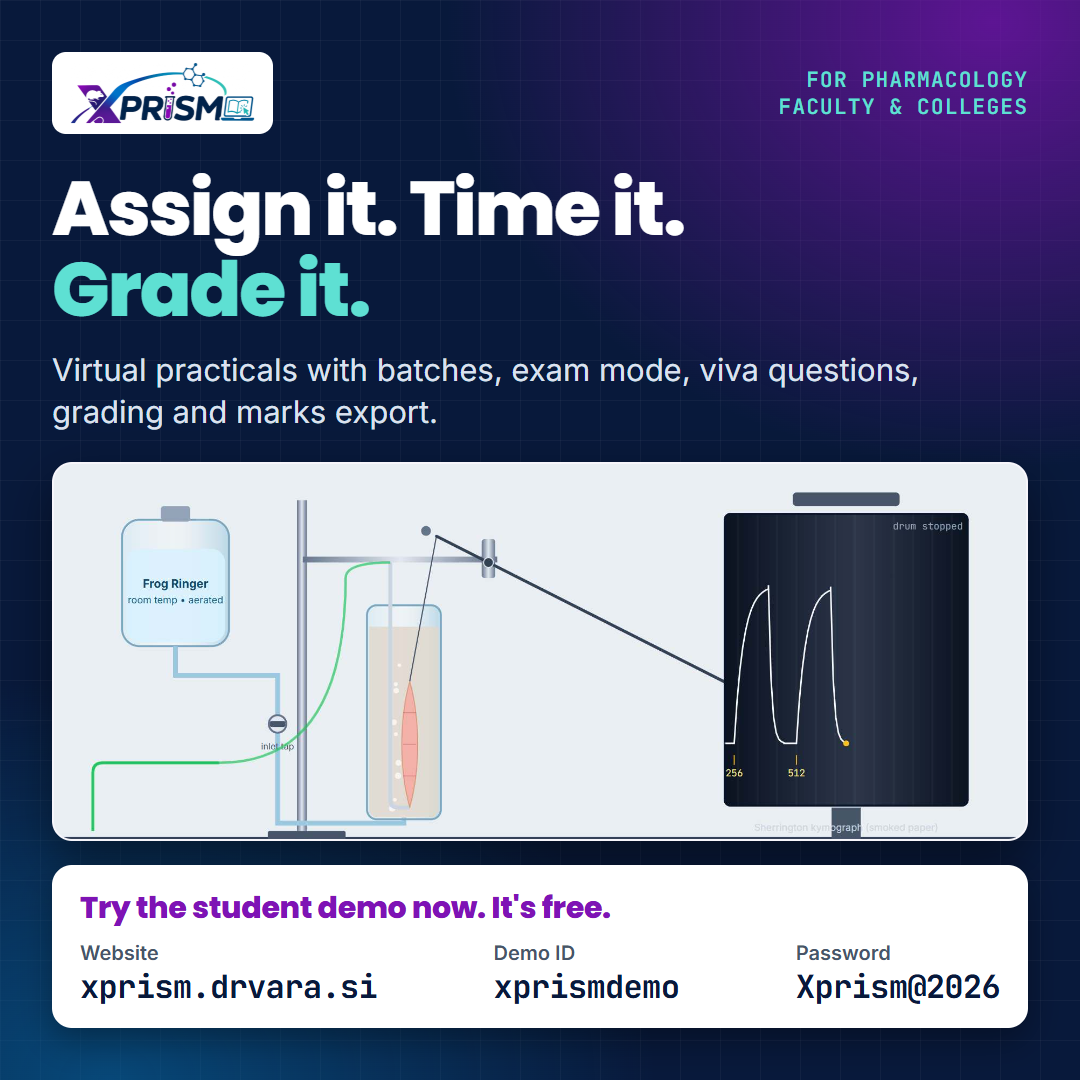
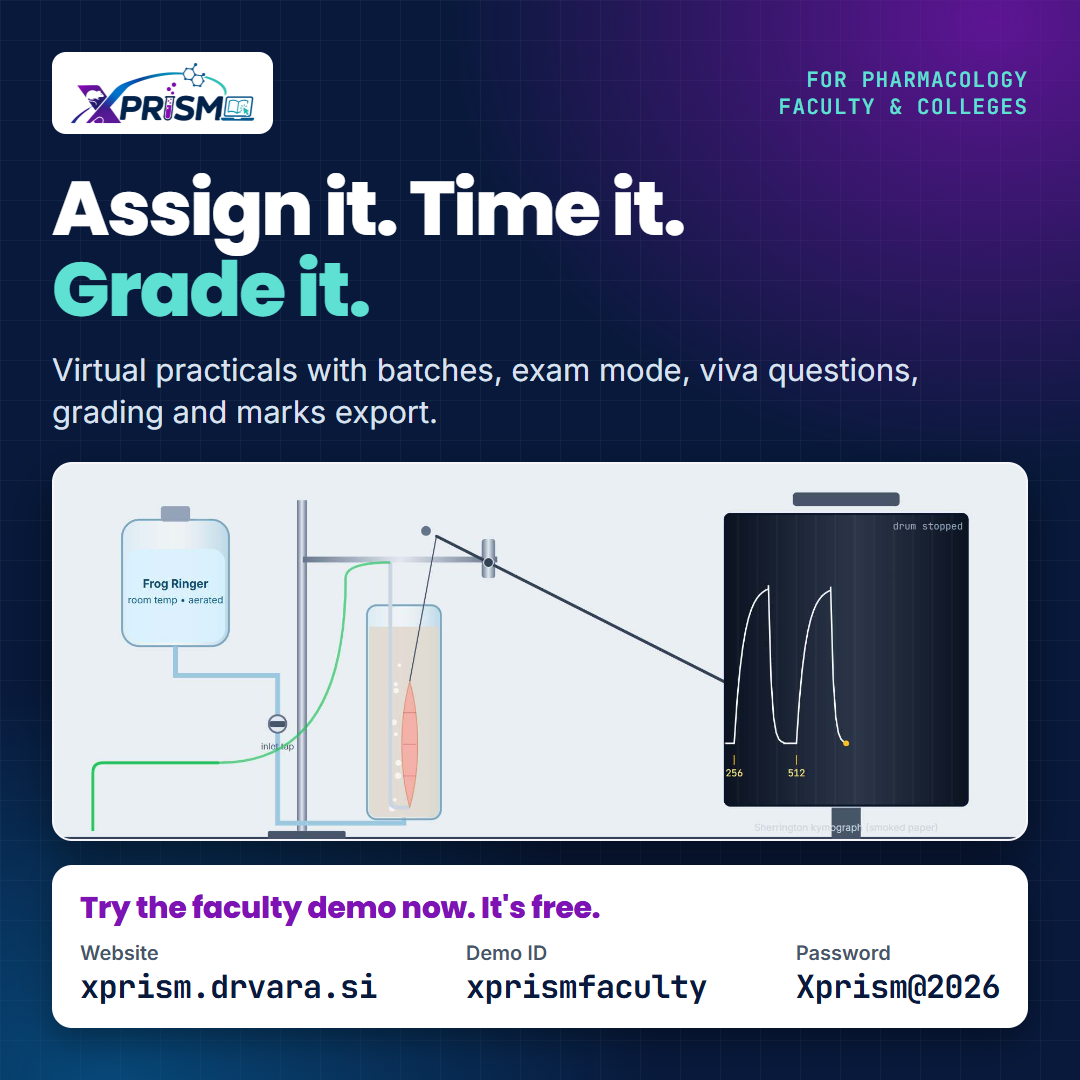
Add public demo logins for every role except super admin
Add setup_demo, which creates a demo college with shared College Admin,
Faculty, Lab Assistant and Student logins plus a sample class. Running
it again restores the demo college and touches no other college;
deploy/demo-reset.sh runs it nightly.

Because the passwords are printed in adverts, shared logins may only
sign in and out, accept the terms, submit work, grade, and create or
edit assignments. Wrong passwords don't lock them, the audit log hides
visitors' IP addresses, joining by class code is off, and every page
warns against entering real student details.

Add all-roles ad images and text, and give the faculty ad its own login.

Changed region(s): [[0.1833, 0.825, 0.6417, 0.9472]]

diff --git a/marketing/ads/build_ads.js b/marketing/ads/build_ads.js
@@ -1,11 +1,13 @@
 // Renders the XPRISM ad images with the project's own fonts, logo and simulation screenshots.
-// Change the demo login below, then run:  npm i --no-save playwright-core && node marketing/ads/build_ads.js
+// Change the demo logins below (and PASSWORD in lab/management/commands/setup_demo.py), then run:
+//   npm i --no-save playwright-core && node marketing/ads/build_ads.js
 const fs = require('fs');
 const os = require('os');
 const path = require('path');
 const { chromium } = require('playwright-core');
 
 const SITE = 'xprism.drvara.si', ID = 'xprismdemo', PWD = 'Xprism@2026';
+const ROLES = [['Student', 'xprismdemo'], ['Faculty', 'xprismfaculty'], ['Lab Assistant', 'xprismassistant'], ['College Admin', 'xprismadmin']];
 const ROOT = 'file:///' + path.resolve(__dirname, '../..').replace(/\\/g, '/');
 
 const css = `
@@ -40,6 +42,11 @@ h1 span{color:#5ee0d3}
 .pair .shot{flex:1.55 1 0;margin-top:0}
 .pair .rs{flex:1 1 0;flex-direction:column;margin-top:0}
 .pair .rs div{display:flex;flex-direction:column;justify-content:center}
+.roles .site{display:flex;justify-content:space-between;gap:calc(var(--u)*16);margin-top:calc(var(--u)*8);padding-bottom:calc(var(--u)*12);border-bottom:1px solid #e2e8f0;font-size:calc(var(--u)*20);font-weight:600;color:#475569}
+.roles .site strong{display:block;margin-top:calc(var(--u)*2);font-family:'JetBrains Mono',monospace;font-weight:700;font-size:calc(var(--u)*30);letter-spacing:-.02em;color:#08193b}
+.roles .table{display:grid;grid-template-columns:1fr 1fr;gap:calc(var(--u)*8) calc(var(--u)*20);margin-top:calc(var(--u)*12)}
+.roles .table small{display:block;font-size:calc(var(--u)*20);font-weight:600;color:#475569}
+.roles .table strong{display:block;font-family:'JetBrains Mono',monospace;font-weight:700;font-size:calc(var(--u)*30);letter-spacing:-.02em}
 /* landscape: copy beside the screenshot */
 .wide{flex-direction:row;gap:calc(var(--u)*36);align-items:stretch}
 .wide .col{flex:1 1 0;min-width:0;display:flex;flex-direction:column}
@@ -54,8 +61,12 @@ const logo = `<div class="logo"><img src="${ROOT}/brand/xprism-lockup-transparen
 const lab = '<div class="tag">Virtual<br>Pharmacology Lab</div>';
 const motto = '<h1>Experiment Virtually.<br>Learn Practically.<br><span>Advance Ethically.</span></h1>';
 const shot = (file, pos, extra = '') => `<div class="shot"><img src="${ROOT}/static/assets/img/modules/${file}" alt="" style="object-position:${pos};${extra}"></div>`;
-const credOf = title => `<div class="cred"><h2>${title}</h2><div class="grid"><div><small>Website</small><strong>${SITE}</strong></div><div><small>Demo ID</small><strong>${ID}</strong></div><div><small>Password</small><strong>${PWD}</strong></div></div></div>`;
+const credOf = (title, id = ID) => `<div class="cred"><h2>${title}</h2><div class="grid"><div><small>Website</small><strong>${SITE}</strong></div><div><small>Demo ID</small><strong>${id}</strong></div><div><small>Password</small><strong>${PWD}</strong></div></div></div>`;
 const cred = credOf("Try the demo now. It's free.");
+const roleTable = `<div class="cred roles"><h2>Try every role. It's free.</h2>
+  <div class="site"><span>Website <strong>${SITE}</strong></span><span>Password for all <strong>${PWD}</strong></span></div>
+  <div class="table">${ROLES.map(([r, id]) => `<div><small>${r}</small><strong>${id}</strong></div>`).join('')}</div></div>`;
+const faculty = `<div class="shot"><img src="${ROOT}/marketing/ads/assets/demo-faculty.jpg" alt="" style="object-position:0 0"></div>`;
 
 const ads = [
   { name: 'xprism-ad-1-square-1080x1080', w: 1080, h: 1080, u: 1, pad: 52, hs: 76, ss: 31, body: `
@@ -86,7 +97,19 @@ const ads = [
     <div class="top">${logo}<div class="tag">For pharmacology<br>faculty &amp; colleges</div></div>
     <h1>Assign it. Time it.<br><span>Grade it.</span></h1>
     <p class="sub">Virtual practicals with batches, exam mode, viva questions, grading and marks export.</p>
-    ${shot('hero-dose-response.jpg', '50% 40%')}${credOf("Try the student demo now. It's free.")}` },
+    ${shot('hero-dose-response.jpg', '50% 40%')}${credOf("Try the faculty demo now. It's free.", 'xprismfaculty')}` },
+  { name: 'xprism-ad-6-all-roles-square-1080x1080', w: 1080, h: 1080, u: 1, pad: 52, hs: 76, ss: 31, body: `
+    <div class="top">${logo}${lab}</div>
+    <h1>One lab.<br><span>Every role.</span></h1>
+    <p class="sub">Student. Faculty. Lab assistant. College admin.</p>
+    ${faculty}${roleTable}` },
+  { name: 'xprism-ad-7-all-roles-story-1080x1920', w: 1080, h: 1920, u: 1.18, pad: 60, hs: 92, ss: 37, body: `
+    <div style="height:70px"></div>
+    <div class="top">${logo}${lab}</div>
+    <h1>One lab.<br><span>Every role.</span></h1>
+    <p class="sub">Student. Faculty. Lab assistant. College admin.</p>
+    ${faculty}${roleTable}
+    <div style="height:150px"></div>` },
 ];
 
 (async () => {

diff --git a/templates/lab/audit_log.html b/templates/lab/audit_log.html
@@ -5,7 +5,7 @@
 <form class="flex gap-2"><input name="action" value="{{ action }}" placeholder="Filter by action (e.g. login, graded)" class="bg-white border border-slate-300 rounded-lg px-3 py-1.5 text-xs w-60"><button class="px-3 py-1.5 rounded-lg bg-slate-800 text-white text-xs">Filter</button></form></div>
 <div class="bg-white rounded-xl border border-slate-200 shadow-sm overflow-x-auto">
 <table class="obs-table w-full text-xs text-left"><thead><tr><th>When</th><th>Who</th><th>College</th><th>Action</th><th>Target</th><th>Details</th><th>IP</th></tr></thead><tbody>
-{% for l in page %}<tr><td class="mono whitespace-nowrap">{{ l.at|date:"d M Y H:i:s" }}</td><td>{{ l.actor.username|default:"—" }}</td><td>{{ l.college.code|default:"—" }}</td><td class="mono font-semibold">{{ l.action }}</td><td>{{ l.target }}</td><td class="mono text-[10px] text-slate-500">{% if l.detail %}{{ l.detail }}{% endif %}</td><td class="mono text-slate-400">{{ l.ip|default:"" }}</td></tr>
+{% for l in page %}<tr><td class="mono whitespace-nowrap">{{ l.at|date:"d M Y H:i:s" }}</td><td>{{ l.actor.username|default:"—" }}</td><td>{{ l.college.code|default:"—" }}</td><td class="mono font-semibold">{{ l.action }}</td><td>{{ l.target }}</td><td class="mono text-[10px] text-slate-500">{% if l.detail %}{{ l.detail }}{% endif %}</td><td class="mono text-slate-400">{% if not user.is_shared_demo %}{{ l.ip|default:"" }}{% endif %}</td></tr>
 {% empty %}<tr><td colspan="7" class="text-slate-400 py-3">No entries.</td></tr>{% endfor %}
 </tbody></table></div>
 {% if page.has_other_pages %}<div class="flex justify-between text-xs">{% if page.has_previous %}<a href="?action={{ action }}&page={{ page.previous_page_number }}" class="text-teal-700">← Newer</a>{% else %}<span></span>{% endif %}<span>Page {{ page.number }} / {{ page.paginator.num_pages }}</span>{% if page.has_next %}<a href="?action={{ action }}&page={{ page.next_page_number }}" class="text-teal-700">Older →</a>{% endif %}</div>{% endif %}

diff --git a/templates/base.html b/templates/base.html
@@ -72,6 +72,7 @@
       <form method="post" action="{% url 'logout' %}" class="inline">{% csrf_token %}<button class="px-2.5 py-1.5 rounded-md bg-slate-700 hover:bg-slate-600 text-white font-semibold">Sign out</button></form>
     </div>
   </nav>
+  {% if user.is_shared_demo %}<div class="bg-amber-50 border-b border-amber-200 text-amber-900 text-xs text-center px-4 py-1.5" role="status"><b>Shared demo:</b> sample data only, visible to everyone using this login. Don't enter real student details. Resets every night.</div>{% endif %}
   {% endif %}
 
   <main class="{% block main_class %}flex-1 max-w-7xl w-full mx-auto p-4 md:p-6 space-y-4{% endblock %}">

diff --git a/lab/management/commands/setup_demo.py b/lab/management/commands/setup_demo.py
@@ -1,0 +1,80 @@
+import random
+
+from django.conf import settings
+from django.core.management.base import BaseCommand
+from django.db import transaction
+from django.utils import timezone
+
+from lab.models import Assignment, Attempt, Batch, College, DataRequest, Enrollment, Experiment, Role, User
+
+COLLEGE_CODE = 'xprism-demo'
+PASSWORD = 'Xprism@2026'
+ACCOUNTS = [('xprismadmin', 'College', 'Admin', Role.COLLEGE_ADMIN),
+            ('xprismfaculty', 'Faculty', 'Demo', Role.FACULTY),
+            ('xprismassistant', 'Lab', 'Assistant', Role.LAB_ASSISTANT),
+            ('xprismdemo', 'Student', 'Demo', Role.STUDENT)]
+# experiment no, exam mode, time limit (min), sample results shown to staff
+ASSIGNMENTS = [(4, False, None, [['Mean fall-off time, basal (s)', '178.4'], ['Mean fall-off time, after drug (s)', '46.2'], ['Reduction (%)', '74.1']]),
+               (18, False, None, [['Dose ratio at 1 nM antagonist', '9.6'], ['pA2 estimate', '8.9']]),
+               (21, True, 45, [])]
+
+
+class Command(BaseCommand):
+    help = 'Create the public demo logins and sample class, or put them back as they were. Safe to run every night; touches only the demo college.'
+
+    @transaction.atomic
+    def handle(self, *a, **o):
+        now = timezone.now()
+        c, _ = College.objects.update_or_create(code=COLLEGE_CODE, defaults={
+            'name': 'XPRISM Demo College', 'location_text': 'Shared demo', 'contact_email': '', 'grievance_officer': '', 'grievance_email': '',
+            'is_active': True, 'subscription_active': True, 'subscription_until': None})
+        c.disabled_experiments.clear()
+        names = [x[0] for x in ACCOUNTS]
+        Batch.objects.filter(college=c).delete()
+        DataRequest.objects.filter(college=c).delete()
+        User.objects.filter(college=c).exclude(username__in=names).delete()
+
+        users = {}
+        for username, first, last, role in ACCOUNTS:
+            u, _ = User.objects.get_or_create(username=username)
+            u.first_name, u.last_name, u.role, u.college, u.email = first, last, role, c, ''
+            u.must_change_password, u.is_trial_account, u.is_active, u.anonymised = False, False, True, False
+            u.failed_logins, u.locked_until, u.subscribed_until = 0, None, None
+            u.set_password(PASSWORD)
+            u.save()
+            users[role] = u
+        fac = users[Role.FACULTY]
+
+        # joining is off: a class code that anyone can read must not open accounts in this college
+        b = Batch.objects.create(college=c, name='B.Pharm Section A', join_enabled=False, created_by=fac)
+        b.faculty.add(fac)
+        Enrollment.objects.create(batch=b, student=users[Role.STUDENT])
+        samples = []
+        for i in range(1, 7):
+            s = User(username=f'{COLLEGE_CODE}-sample{i}', first_name='Sample', last_name=f'Student {i}', role=Role.STUDENT, college=c, roll_no=f'DEMO{i:03d}')
+            s.set_unusable_password()
+            s.save()
+            Enrollment.objects.create(batch=b, student=s)
+            samples.append(s)
+
+        rng = random.Random(2026)
+        for no, exam, limit, rows in ASSIGNMENTS:
+            e = Experiment.objects.get(no=no)
+            x = Assignment.objects.create(batch=b, experiment=e, opens_at=now - timezone.timedelta(days=7), due_at=now + timezone.timedelta(days=14),
+                                          exam_mode=exam, time_limit_min=limit, max_attempts=99, created_by=fac)
+            if not rows:
+                continue
+            for i, s in enumerate(samples[:5]):
+                vs = rng.randint(5, 10)
+                at = Attempt(assignment=x, student=s, status=Attempt.SUBMITTED, started_at=now - timezone.timedelta(days=2, hours=1), submitted_at=now - timezone.timedelta(days=2),
+                             viva_score=vs, viva_total=10, completion=True,
+                             payload={'results': {'rows': rows, 'text': 'Sample submission created for this demo.'},
+                                      'viva': {'score': vs, 'total': 10, 'items': [{'i': n, 'q': f'Sample viva question {n + 1}', 'chosen': 'A', 'correct': 'A' if n < vs else 'B', 'ok': n < vs} for n in range(10)]}})
+                at.compute_auto_score()
+                if i < 2:       # some already marked, the rest waiting in the faculty's queue
+                    at.status, at.graded_by, at.graded_at, at.feedback = Attempt.GRADED, fac, now - timezone.timedelta(days=1), 'Good work. Sample feedback for this demo.'
+                at.save()
+
+        self.stdout.write(self.style.SUCCESS(f'Demo ready at "{c.name}", password {PASSWORD}:'))
+        for username, _, _, role in ACCOUNTS:
+            self.stdout.write(f'  {Role(role).label}: {username}')

diff --git a/lab/tests.py b/lab/tests.py
@@ -146,6 +146,59 @@ class AuthTests(Base):
         self.login(self.st)
         self.assertContains(self.client.get('/student/'), '/accounts/password/change/')
 
+    def test_shared_demo_limits(self):
+        call_command('setup_demo', stdout=io.StringIO())
+        User.objects.filter(username__in=settings.SHARED_DEMO_USERNAMES).update(consent_version=settings.POLICY_VERSION)
+        demo = {u.role: u for u in User.objects.filter(username__in=settings.SHARED_DEMO_USERNAMES)}
+        self.assertEqual(set(demo), {Role.COLLEGE_ADMIN, Role.FACULTY, Role.LAB_ASSISTANT, Role.STUDENT})
+        b = Batch.objects.get(college__code='xprism-demo')
+        self.assertFalse(b.join_enabled)
+        # every role's start page works, and shows the warning
+        for u, url in ((demo[Role.COLLEGE_ADMIN], '/college/'), (demo[Role.FACULTY], '/faculty/'), (demo[Role.LAB_ASSISTANT], '/faculty/'), (demo[Role.STUDENT], '/student/')):
+            self.login(u)
+            self.assertContains(self.client.get(url), 'Shared demo:')
+        # a demo college admin cannot touch people, settings or requests
+        admin, fac, stu = demo[Role.COLLEGE_ADMIN], demo[Role.FACULTY], demo[Role.STUDENT]
+        self.login(admin)
+        for url in (f'/college/users/{fac.pk}/toggle/', f'/college/users/{fac.pk}/reset/', '/college/settings/', '/college/experiments/', '/college/requests/', '/college/users/',
+                    f'/faculty/batches/{b.pk}/action/archive/', f'/faculty/batches/{b.pk}/students/{stu.pk}/reset/', f'/faculty/batches/{b.pk}/students/add/', '/faculty/batches/new/', '/me/data/'):
+            self.assertEqual(self.client.post(url, {'name': 'x', 'first_name': 'x', 'roll_no': '1', 'kind': 'deletion'}).status_code, 302, url)
+        fac.refresh_from_db(); stu.refresh_from_db(); b.refresh_from_db()
+        self.assertTrue(fac.is_active and fac.check_password('Xprism@2026') and not fac.must_change_password)
+        self.assertTrue(stu.check_password('Xprism@2026'))
+        self.assertFalse(b.archived)
+        self.assertEqual(Batch.objects.filter(college__code='xprism-demo').count(), 1)
+        self.assertFalse(DataRequest.objects.filter(user=stu).exists())
+        self.assertFalse(User.objects.filter(college__code='xprism-demo', roll_no='1').exists())
+        # visitors' IP addresses stay hidden on the shared audit log
+        AuditLog.objects.create(actor=stu, college=b.college, action='login', ip='203.0.113.9')
+        self.assertNotContains(self.client.get('/college/audit/'), '203.0.113.9')
+        # the demo works as a demo: faculty can grade, the student can submit, and repeated bad passwords lock nobody out
+        self.login(fac)
+        at = Attempt.objects.filter(assignment__batch=b, status=Attempt.SUBMITTED).first()
+        self.client.post(f'/faculty/attempts/{at.pk}/', {'manual_marks': '7', 'feedback': 'ok'})
+        at.refresh_from_db()
+        self.assertEqual(at.status, Attempt.GRADED)
+        self.login(stu)
+        a = Assignment.objects.filter(batch=b, exam_mode=False).first()
+        self.assertEqual(self.client.get(f'{a.experiment.url}?a={a.pk}').status_code, 302)  # ethics agreement first
+        self.client.post('/agreement/', {'agree_ethics': 'on'})
+        self.assertEqual(self.client.get(f'{a.experiment.url}?a={a.pk}').status_code, 200)
+        started = Attempt.objects.get(student=stu, assignment=a, status=Attempt.STARTED)
+        r = self.client.post(f'/api/attempts/{started.pk}/submit', json.dumps({'completion': True}), content_type='application/json')
+        self.assertEqual(r.status_code, 200)
+        self.client.logout()
+        for _ in range(settings.LOGIN_MAX_FAILURES + 1):
+            self.client.post('/accounts/login/', {'username': 'xprismdemo', 'password': 'wrong'})
+        stu.refresh_from_db()
+        self.assertIsNone(stu.locked_until)
+        # the nightly run puts everything back and leaves other colleges alone
+        batches_elsewhere = Batch.objects.exclude(college__code='xprism-demo').count()
+        call_command('setup_demo', stdout=io.StringIO())
+        self.assertFalse(Attempt.objects.filter(student=stu).exists())
+        self.assertEqual(Batch.objects.exclude(college__code='xprism-demo').count(), batches_elsewhere)
+        self.assertEqual(Batch.objects.filter(college__code='xprism-demo').count(), 1)
+
     def test_forced_password_change(self):
         u = mkuser('one-bp010', Role.STUDENT, self.c1, must_change_password=True)
         self.login(u)

diff --git a/lab/middleware.py b/lab/middleware.py
@@ -1,24 +1,46 @@
 from django.conf import settings
+from django.contrib import messages
+from django.http import JsonResponse
 from django.shortcuts import redirect
-from django.urls import reverse
+from django.urls import Resolver404, resolve, reverse
+from django.utils.http import url_has_allowed_host_and_scheme
 
 OPEN_PREFIXES = ('/assets/', '/accounts/logout', '/privacy', '/terms', '/conditions', '/ethics', '/about', '/documentation', '/consent', '/accounts/password/force', '/accounts/verify', '/favicon')
+# what a public demo login may change: enough to try assigning, grading and submitting. Everything else (people, passwords, settings, batches, data requests) is refused.
+SHARED_DEMO_ALLOWED = {'logout', 'consent', 'ethics_agreement', 'api_submit', 'assignment_new', 'assignment_edit', 'attempt_detail'}
+
+
+def _shared_demo_refusal(request):
+    try:
+        if resolve(request.path_info).url_name in SHARED_DEMO_ALLOWED:
+            return None
+    except Resolver404:
+        return None
+    text = 'This is a shared demo, so that action is switched off. Write to us for your own college account.'
+    if request.path.startswith('/api/'):
+        return JsonResponse({'error': text}, status=403)
+    messages.info(request, text)
+    back = request.META.get('HTTP_REFERER', '')
+    return redirect(back if url_has_allowed_host_and_scheme(back, allowed_hosts={request.get_host()}) else 'home')
 
 
 class AccountGateMiddleware:
-    """Logged-in users must (1) replace a temporary password and (2) accept the current policies."""
+    """Logged-in users must (1) replace a temporary password and (2) accept the current policies. Public demo logins cannot change most things."""
 
     def __init__(self, get_response):
         self.get_response = get_response
 
     def __call__(self, request):
         u = getattr(request, 'user', None)
+        if u is not None and u.is_authenticated and u.is_shared_demo and request.method not in ('GET', 'HEAD', 'OPTIONS'):
+            refusal = _shared_demo_refusal(request)
+            if refusal is not None:
+                return refusal
         if u is not None and u.is_authenticated and not request.path.startswith(OPEN_PREFIXES):
             if u.must_change_password:
                 return redirect(reverse('force_password') + f'?next={request.get_full_path()}')
             if u.consent_version != settings.POLICY_VERSION:
                 if request.path.startswith('/api/'):
-                    from django.http import JsonResponse
                     return JsonResponse({'error': 'Please accept the updated terms first.'}, status=403)
                 return redirect(reverse('consent') + f'?next={request.get_full_path()}')
         return self.get_response(request)

diff --git a/config/settings.py b/config/settings.py
@@ -174,7 +174,7 @@ ETHICS_VERSION = '2026-11-02'
 # a free-trial visit ends when the user returns to the lab index / a dashboard, opens another module, or after this many hours
 TRIAL_VISIT_MAX_HOURS = int(env('TRIAL_VISIT_MAX_HOURS', '3'))
 SUBSCRIPTION_CONTACT = env('SUBSCRIPTION_CONTACT', 'drvaraprasadsaka@gmail.com')
-SHARED_DEMO_USERNAMES = [u.strip() for u in env('SHARED_DEMO_USERNAMES', 'xprismdemo').split(',') if u.strip()]
+SHARED_DEMO_USERNAMES = [u.strip() for u in env('SHARED_DEMO_USERNAMES', 'xprismdemo,xprismfaculty,xprismassistant,xprismadmin').split(',') if u.strip()]
 DATA_RETENTION_YEARS = int(env('DATA_RETENTION_YEARS', '3'))
 LOGIN_MAX_FAILURES = 5
 LOGIN_LOCK_MINUTES = 15

diff --git a/lab/views_auth.py b/lab/views_auth.py
@@ -72,7 +72,7 @@ def login_view(request):
                 return redirect(_safe_next(request, '/home/'))
         else:
             cache.set(ip_key, ip_fails + 1, 15 * 60)
-            if target:
+            if target and not target.is_shared_demo:    # its password is public, so a lock-out would only let anyone block the demo
                 target.failed_logins += 1
                 if target.failed_logins >= settings.LOGIN_MAX_FAILURES:
                     target.locked_until = now + timezone.timedelta(minutes=settings.LOGIN_LOCK_MINUTES)

diff --git a/lab/models.py b/lab/models.py
@@ -76,7 +76,7 @@ class User(AbstractUser):
 
     @property
     def is_shared_demo(self):
-        """A public login printed in adverts: visitors must not be able to change its password."""
+        """A public login printed in adverts: AccountGateMiddleware limits what it can change."""
         return self.username in settings.SHARED_DEMO_USERNAMES
 
     @property

diff --git a/marketing/ads/ad-copy.md b/marketing/ads/ad-copy.md
@@ -1,12 +1,17 @@
 # XPRISM ad text
 
-**Demo login used in every ad**
+**Demo logins**
 
-- Website: https://xprism.drvara.si
-- Demo ID: `xprismdemo`
-- Password: `Xprism@2026`
+Website: https://xprism.drvara.si. Password for all of them: `Xprism@2026`
 
-The demo is a student login with unlimited practice on all 25 modules. It doesn't show the faculty tools.
+| Role | Demo ID | What they can try |
+|---|---|---|
+| Student | `xprismdemo` | Assignments, unlimited practice on all 25 modules, and submitting work |
+| Faculty | `xprismfaculty` | Batches, assigning experiments, grading and marks export |
+| Lab Assistant | `xprismassistant` | Viewing batches and submissions |
+| College Admin | `xprismadmin` | Viewing staff, experiments, settings, requests and the audit log |
+
+Most changes are switched off on these logins, and sample data resets every night.
 
 ## Images
 
@@ -16,7 +21,9 @@ The demo is a student login with unlimited practice on all 25 modules. It doesn'
 | `xprism-ad-2-story-1080x1920.png` | Instagram and Facebook Stories, Reels, WhatsApp Status |
 | `xprism-ad-3-landscape-1200x628.png` | Facebook link ads, LinkedIn, X |
 | `xprism-ad-4-3rs-square-1080x1080.png` | Ethics and 3Rs message |
-| `xprism-ad-5-faculty-square-1080x1080.png` | Faculty and colleges |
+| `xprism-ad-5-faculty-square-1080x1080.png` | Faculty and colleges, with the faculty login |
+| `xprism-ad-6-all-roles-square-1080x1080.png` | Every role's login: feeds, WhatsApp |
+| `xprism-ad-7-all-roles-story-1080x1920.png` | Every role's login: Stories, Reels, WhatsApp Status |
 
 ## Facebook and Instagram: students
 
@@ -54,14 +61,34 @@ Password: Xprism@2026
 
 Teaching experimental pharmacology with fewer live animals? XPRISM gives your students 25 interactive simulations, and gives you the tools to run them as real coursework: batches, assignments, a timed exam mode, grading and marks export to Excel or CSV.
 
-See what your students would use with the student demo:
-Website: xprism.drvara.si
-Demo ID: xprismdemo
-Password: Xprism@2026
+Try it yourself at xprism.drvara.si (password for all: Xprism@2026):
+Faculty: xprismfaculty
+Student: xprismdemo
+Lab Assistant: xprismassistant
+College Admin: xprismadmin
 
 For college access, write to drvaraprasadsaka@gmail.com.
 
 **Headline:** Virtual pharmacology practicals for your college
+
+## Every role: Facebook, Instagram and WhatsApp
+
+**Text**
+
+One lab. Every role. See XPRISM the way your college would use it: as a student running a practical, faculty grading it, a lab assistant checking submissions, or a college admin overseeing it all.
+
+Website: xprism.drvara.si
+Password for all: Xprism@2026
+
+Student: xprismdemo
+Faculty: xprismfaculty
+Lab Assistant: xprismassistant
+College Admin: xprismadmin
+
+Sample data only. Please don't enter real student details.
+
+**Headline:** Try every role. It's free.
+**Button:** Learn More
 
 ## WhatsApp
 

diff --git a/README.md b/README.md
@@ -66,6 +66,23 @@ The agreement is stored as a consent record (`ethics-<ETHICS_VERSION>`). Changin
 granted an individual subscription under **Platform → Trial users**, which can also reset a trial.
 Students of a college whose subscription lapses fall back to the one-visit rule.
 
+## Public demo logins
+
+`manage.py setup_demo` creates "XPRISM Demo College" with one shared login per role, all with the password `Xprism@2026`:
+`xprismadmin` (College Admin), `xprismfaculty` (Faculty), `xprismassistant` (Lab Assistant) and `xprismdemo` (Student),
+plus a sample batch, assignments and submissions.
+
+These logins are meant to be printed in adverts, so they are limited (`SHARED_DEMO_USERNAMES` in `.env`):
+
+- They can look at everything in the demo college, and can assign, grade and submit. All other changes are refused,
+  including passwords, adding or removing people, batches, college settings and data requests.
+- Wrong passwords don't lock them, the audit log hides visitors' IP addresses, and the class code can't be used to join.
+- Running `setup_demo` again puts the demo college back as it was and touches no other college. To do that nightly:
+  `sudo cp deploy/demo-reset.sh /etc/cron.daily/xprism-demo-reset && sudo chmod +x /etc/cron.daily/xprism-demo-reset`
+
+The student login gives unlimited practice on every enabled module, free of charge, for anyone who has the password.
+To end the demo, deactivate the logins or set the demo college inactive under **Platform → Colleges**.
+
 ## How an assignment works
 
 1. Faculty assigns an experiment to a batch. Students see it on **My assignments** and press **Start**.
